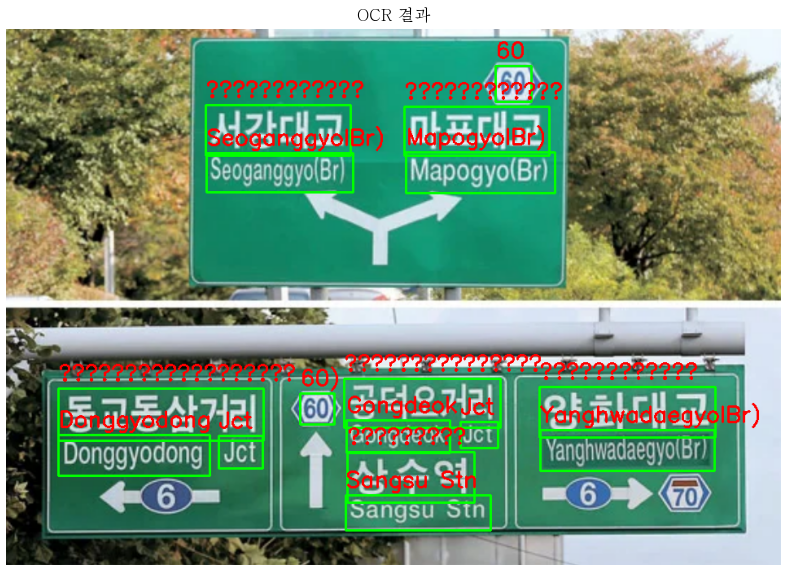
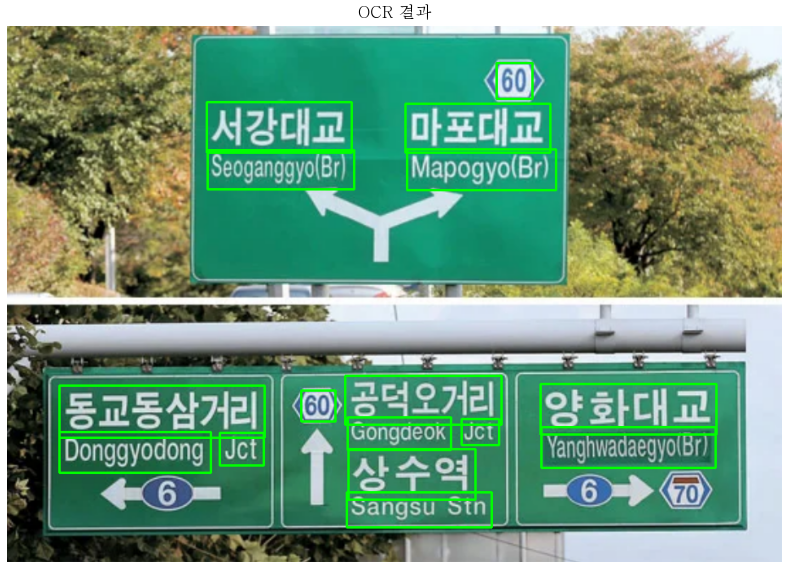
코드 수정 및 결과 이미지 추가

Changed region(s): [[0.0, 0.0, 1.0, 0.9278]]

diff --git a/10_opencv/src/ocr_tra_ko.py b/10_opencv/src/ocr_tra_ko.py
@@ -3,6 +3,13 @@ import cv2
 import matplotlib.pyplot as plt
 import matplotlib.font_manager as fm
 
+font_path = "C:/Windows/Fonts/batang.ttc"  # 바탕체
+fontprop = fm.FontProperties(fname=font_path, size=14)
+plt.rc('font', family=fontprop.get_name())
+
+# EasyOCR 리더: 한글 + 영어 사용
+reader = easyocr.Reader(['ko', 'en'], gpu=False)
+
 # 교통 표지판 이미지 경로
 img_path = '../img/ko_sign.png'  # ← 여기에 교통표지판 이미지 파일 이름
 
